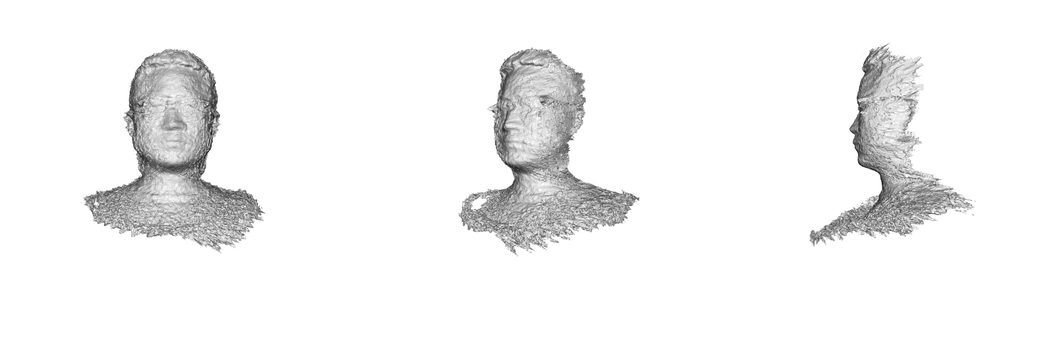
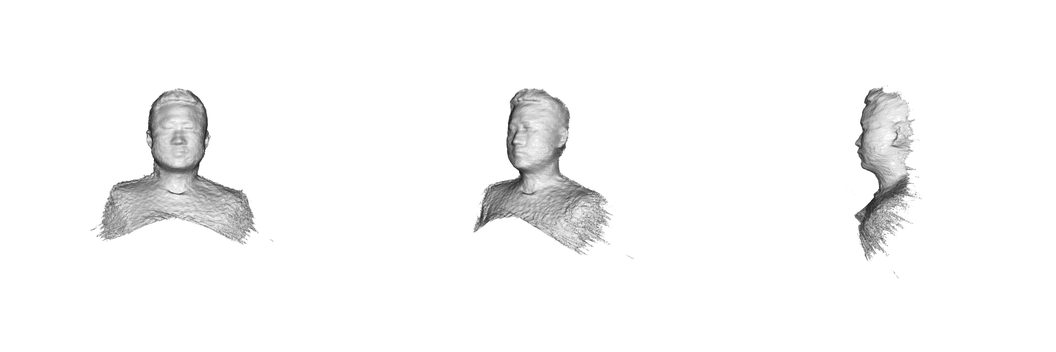
Document the tripod + small-step turn capture method
Fixing the phone on a mini tripod and turning the body in small steps, sweeping
back and forth rather than rotating to the side in one pass, gives the best
reconstruction (0.38mm surface roughness versus 0.9-1.4mm). Update the README
and skill with this method, the front-camera ~90-degree limit, and a new hero
image. Drop the min-valid-ratio filter, which proved a footgun on real scans.

Changed region(s): [[0.0625, 0.125, 0.25, 0.7188], [0.4375, 0.125, 0.625, 0.7188], [0.75, 0.125, 0.9375, 0.75]]

diff --git a/README.md b/README.md
@@ -62,9 +62,11 @@ scripts/build_ios.sh --install --device "My iPhone"
 
 ### 采集指引
 
-- 将手机置于面部前方约 20–35cm 处。
-- 保持中性面部表情。
-- 缓慢转动头部（或移动手机）以覆盖面部不同角度。使用转头方式采集时，融合的参考系会自动跟随面部移动。
+- **把手机固定住，不要手持**：用迷你三脚架或手机支架把手机立在固定的桌面或台面上，镜头对着脸。手持会引入抖动和手部运动，明显降低重建质量。
+- **人自己动，手机不动**：面对手机站好，保持头部和上身不动（不要转头），用脚走小碎步带动全身慢慢旋转。这样脸部相对手机平滑转过不同角度，而相机保持静止。
+- **来回慢扫，不要一次转到底**：从正脸开始，向左转一点，再向右转一点，然后转回来；整个过程缓慢、小幅、多次往返（例如在正面到左右各约 50° 之间反复摆动）。不要一口气转到侧面极限。匀速来回摆动能让每个角度都有多帧重叠，重建质量明显好于一次转到底。
+- **便于操作且覆盖充分**：来回摆动能让脸部各处获得多次覆盖，且手机屏幕始终大致对着人，按屏幕上的开始/停止按钮很方便。
+- **表情与遮挡物**：保持中性表情，摘掉眼镜等遮挡物。
 
 ## 重建
 
@@ -88,5 +90,5 @@ scripts/fuse.sh scans/demo01 --out out/demo01.ply
 使用前请注意以下物理特性与当前版本边界：
 
 - 材质空洞：头发、眼镜、瞳孔和高光处会产生空洞，因为这些材质吸收或偏折红外点阵。
-- 视野范围：前置摄像头看不到后脑。
+- 视野范围：前置摄像头只能看到脸的前方一侧（约 ±90°），转过去的侧后方和后脑扫不到，这是传感器的物理限制。
 - 表情建模：v1 版本不建模表情变化，采集时请保持中性表情。

diff --git a/docs/working.md b/docs/working.md
@@ -21,6 +21,10 @@
 - 重组与 check-in 准备：加 README + 示例图 `docs/assets/example_scan.jpg`，清理 `tmp/iphone_face_scan` 草稿与本地 out/scans/build 产物。
 - 全文档转中文（README 走 AGY 起草后主 agent 审核；skill frontmatter 与正文更新为当前拍法与 flags）。
 - Readiness review 通过：pytest 4 passed、shellcheck 干净、bash -n 通过、隐私扫描零命中、gitignore 生效（.local/build/out/scans 未入库）、CI 依赖确认（open3d 0.19 有 manylinux cp312 wheel，测试不依赖 GUI）。
+- 建公开仓库 https://github.com/grapeot/facescan（master，保护规则 0 reviewers + enforce admins）。
+- 确立最优采集方法（实测）：**手机固定在三脚架上、人小碎步转体、来回慢扫**。粗糙度从一次转到底的 0.9–1.4mm 降到 0.38mm（81 帧干净扫描，reprojection 误差 1.5–2.7mm）。
+- 确认前摄物理上限约 ±90°（数据表现为"转到 90° 后回落"），侧后方/后脑不可得。
+- 更新 README（hero 图换成 0.38mm 版、采集指引重写）与 skill（采集方法 + 前摄上限 + 弃用 min-valid-ratio）。
 
 ## Lessons Learned
 
